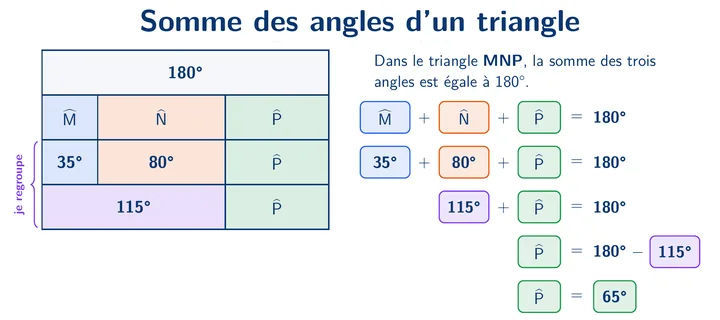
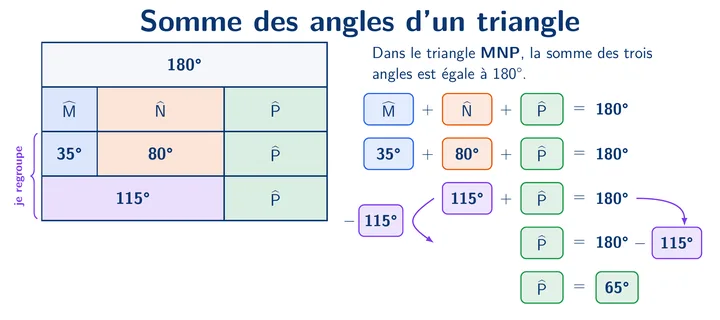
Gabarit somme des angles : version finale du lot (flèches « j’enlève la même quantité », pastilles recalées)
Le lot a été réécrit pendant l’application (14:26) ; reprise du .tex et des
miniatures livrés, PDF recompilé et comparé au PDF fourni.

Changed region(s): [[0.4889, 0.125, 0.9778, 1.0], [0.0, 0.125, 0.4583, 0.7188], [0.9167, 0.625, 0.9472, 0.6562]]

diff --git a/outils/angles/_gabarit_somme_angles_triangle.tex b/outils/angles/_gabarit_somme_angles_triangle.tex
@@ -98,9 +98,9 @@
   % mesures (cases de couleur)
   \tikzset{mes/.style={rounded corners=3pt,line width=0.9pt,minimum width=1.4cm,minimum height=0.72cm,
      font=\bfseries\color{brandNavy},inner sep=1pt}}
-  \node[mes,draw=angBleu,fill=angBleu!13] at (2.05,0.50) {\ifexemple 35°\else\phantom{0}\fi};
-  \node[mes,draw=angOrange,fill=angOrange!13] at (5.25,0.52) {\ifexemple 80°\else\phantom{0}\fi};
-  \node[mes,draw=angVert,fill=angVert!13] at (5.02,2.45) {\large ?};
+  \node[mes,draw=angBleu,fill=angBleu!13] at (1.78,0.40) {\ifexemple 35°\else\phantom{0}\fi};
+  \node[mes,draw=angOrange,fill=angOrange!13] at (5.30,0.48) {\ifexemple 80°\else\phantom{0}\fi};
+  \node[mes,draw=angVert,fill=angVert!13] at (5.05,2.75) {\large ?};
 \end{tikzpicture}}
 
 % ---------- Barres ----------
@@ -155,7 +155,7 @@
 \Parts
 \begin{tikzpicture}
   \def\h{1.22}
-  \def\ex{14.55}   % abscisse du signe =
+  \def\ex{14.7}   % abscisse du signe =
   % ligne 1 : 180
   \draw[tot] (0,3*\h) rectangle (7.8,4*\h);
   \node[txt] at (3.9,3.5*\h) {180°};
@@ -194,12 +194,19 @@
   \node[d] at (\ex+0.3,2.5*\h) {\textbf{180°}};
   \node[g] at (\ex-0.3,1.5*\h) {\PB{\R{35°}{0.95}} \,+\, \PO{\R{80°}{0.95}} \,+\, \PV{\NomAngle{P}}};
   \node[d] at (\ex+0.3,1.5*\h) {\textbf{180°}};
-  \node[g] at (\ex-0.3,0.5*\h) {\PVi{\R{115°}{1.05}} \,+\, \PV{\NomAngle{P}}};
-  \node[d] at (\ex+0.3,0.5*\h) {\textbf{180°}};
+  \node[g] (L3) at (\ex-0.3,0.5*\h) {\PVi{\R{115°}{1.05}} \,+\, \PV{\NomAngle{P}}};
+  \node[d] (R3) at (\ex+0.3,0.5*\h) {\textbf{180°}};
   \node[g] at (\ex-0.3,-0.5*\h) {\PV{\NomAngle{P}}};
-  \node[d] at (\ex+0.3,-0.5*\h) {\textbf{180°} $-$ \PVi{\R{115°}{1.05}}};
+  \node[d] (R4) at (\ex+0.3,-0.5*\h) {\textbf{180°} $-$ \PVi{\R{115°}{1.05}}};
   \node[g] at (\ex-0.3,-1.5*\h) {\PV{\NomAngle{P}}};
   \node[d] at (\ex+0.3,-1.5*\h) {\PV{\R{65°}{0.9}}};
+  % flèches « j'enlève la même quantité de chaque côté » entre les lignes 3 et 4
+  \draw[-{Latex[length=2.2mm]},line width=1pt,angViolet]
+    ($(L3.west)+(-0.08,0)$) to[out=215,in=145,looseness=1.9] ($(L3.west)+(-0.08,-\h)$);
+  \node[anchor=east,font=\fontsize{12.5}{13}\selectfont\color{brandNavy}] at ($(L3.west)+(-0.78,-0.5*\h)$)
+    {$-$\,\Pastille{angViolet}{1.2cm}{\R{115°}{0.85}}};
+  \draw[-{Latex[length=2.2mm]},line width=1pt,angViolet]
+    ($(R3.east)+(0.08,0)$) to[out=0,in=90,looseness=1.1] ($(R4.east)+(-0.62,0.46)$);
 \end{tikzpicture}}
 
 
